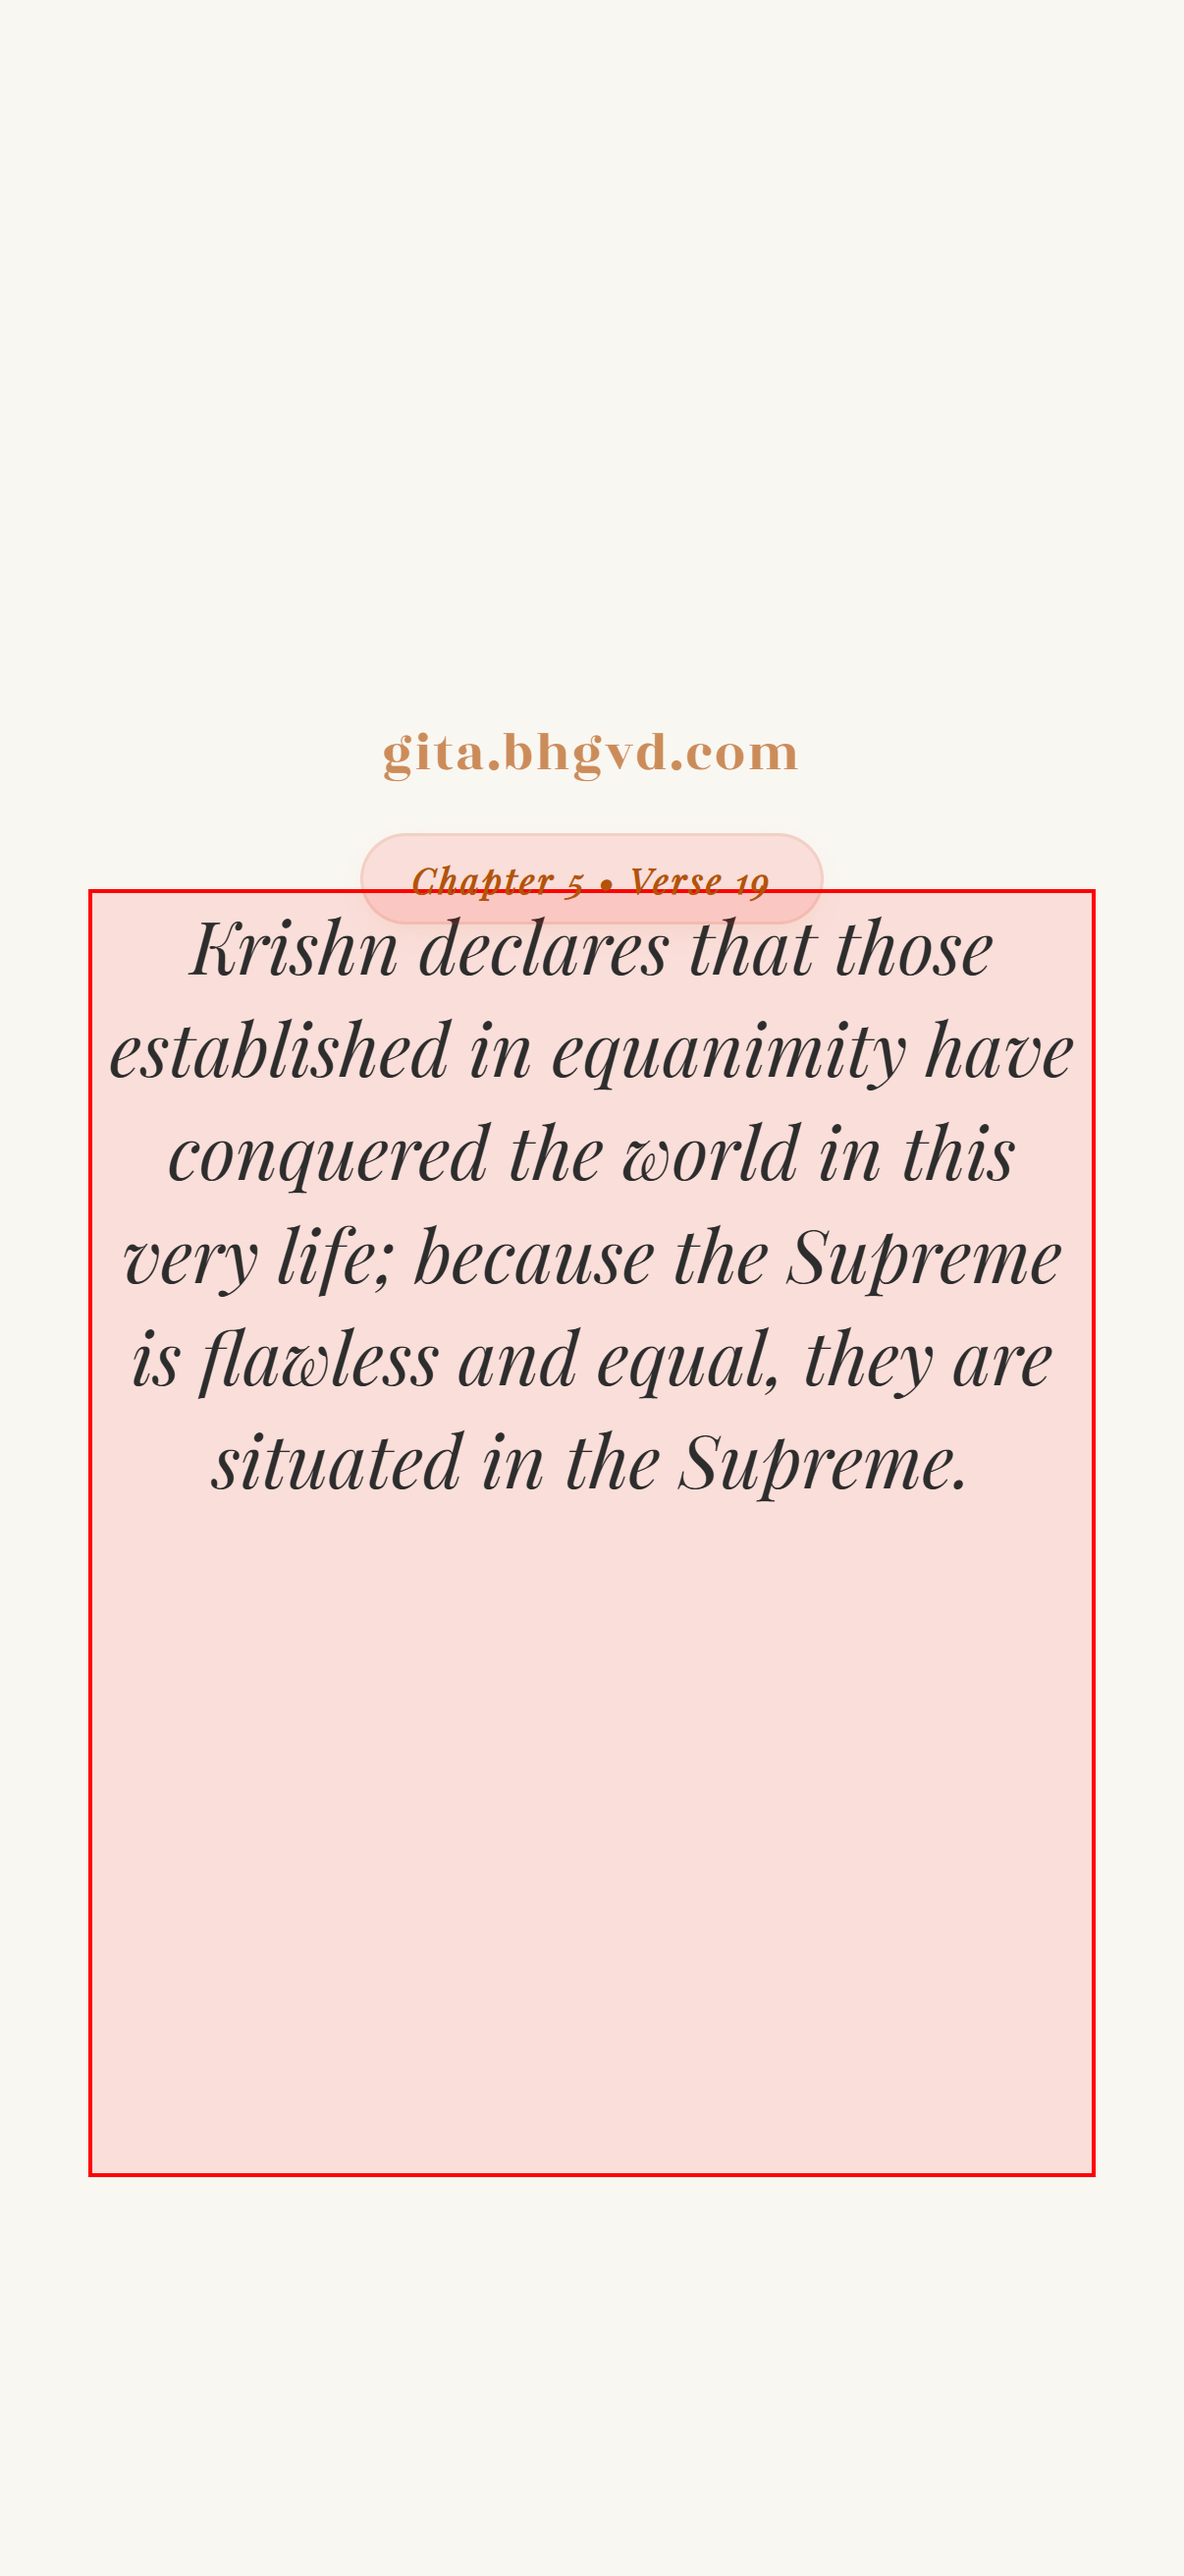
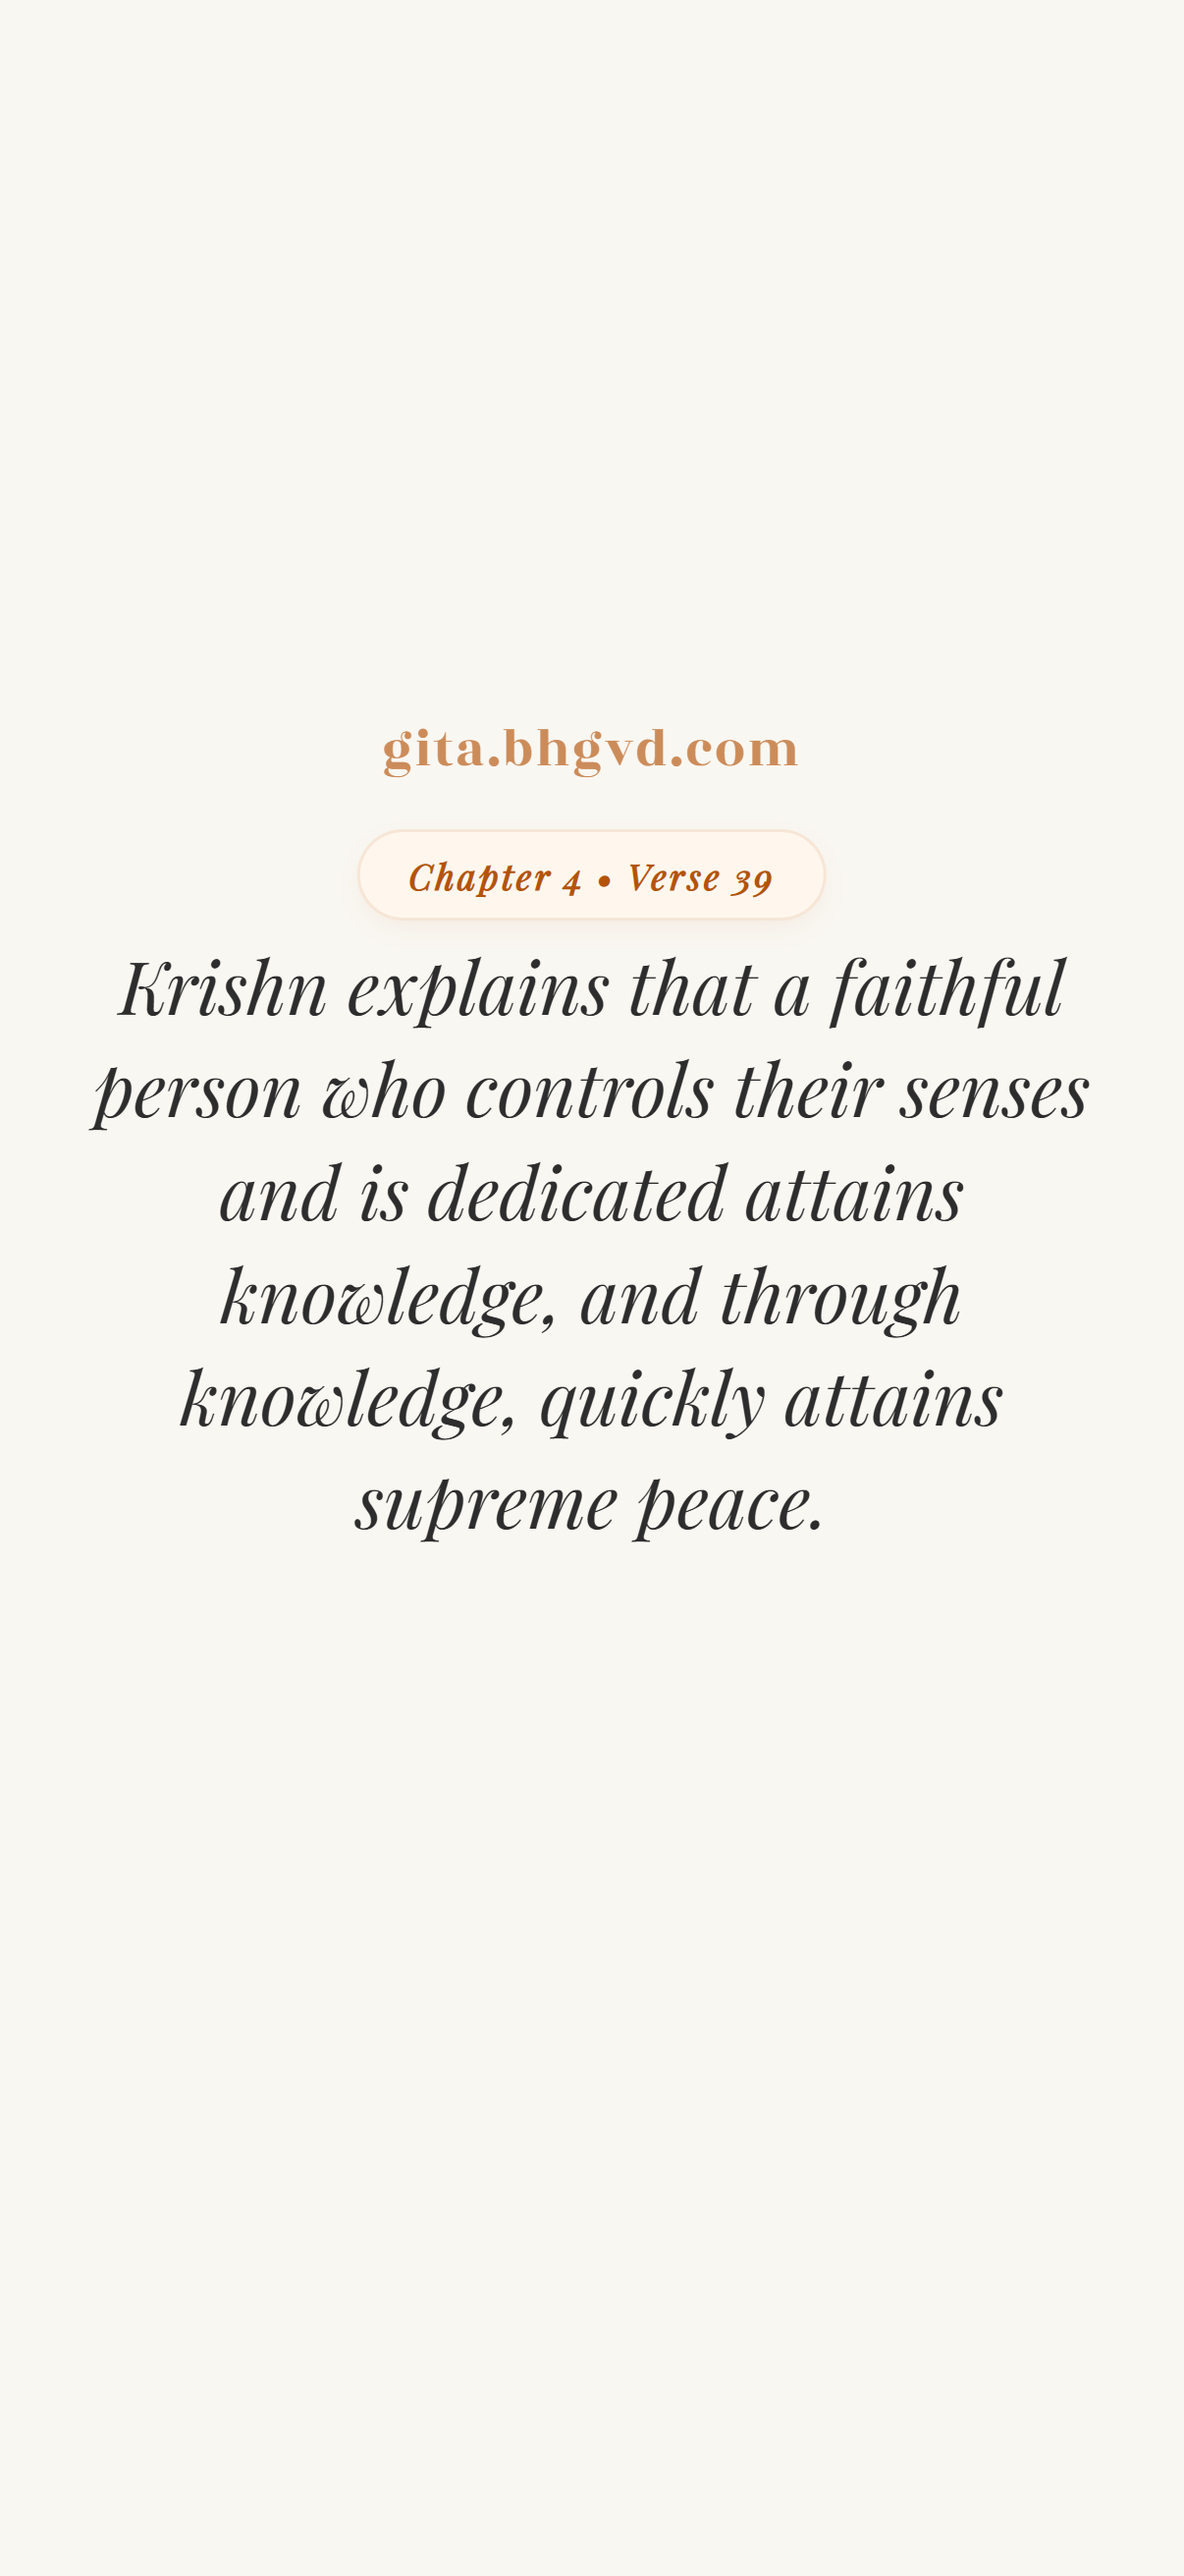
upd

diff --git a/update-wallpaper.js b/update-wallpaper.js
@@ -56,7 +56,7 @@ const devices = [
 ];
 
 async function generateWallpapers() {
-    // 1. Setup Output Directory (Renamed to 'wallpapers')
+    // 1. Setup Output Directory
     const outputDir = 'wallpapers';
     if (!fs.existsSync(outputDir)){
         fs.mkdirSync(outputDir);
@@ -74,7 +74,7 @@ async function generateWallpapers() {
     
     const page = await browser.newPage();
 
-    // 4. Loop through languages first
+    // 4. Loop through languages
     for (const lang of languages) {
         
         // Determine text content
@@ -109,17 +109,18 @@ async function generateWallpapers() {
 
                 .text-box {
                     position: relative;
-                    /* Universal Positioning: 4% from visual center offset */
-                    top: 12.5vh;
+                    top: 9.5vh;
                     
                     width: 85vw; 
-                    height: 55vh; 
+                    height: 50vh; 
+                    padding-top: 3.75vw;
                     
+                    
+
                     display: flex;
                     flex-direction: column;
                     align-items: center;
                     justify-content: flex-start;
-                    padding-top: 8vw;
                     box-sizing: border-box;
                 }
 
@@ -151,17 +152,22 @@ async function generateWallpapers() {
                     font-family: 'Playfair Display', 'fonthindi', 'fontgujarati', serif;
                     color: #2D2D2D;
                     
-                    font-size: 6.2vw;
+                    /* Default large size to test fitting */
+                    font-size: 6.2vw; 
                     
-                    line-height: 1.6;
+                    line-height: 1.4;
                     font-style: italic;
                     text-align: center;
                     padding: 0 2vw;
-                    max-height: 100%; 
-                    overflow: hidden;
-                    display: -webkit-box;
-                    -webkit-line-clamp: 11;
-                    -webkit-box-orient: vertical;
+                    
+                    width: 100%;
+                    max-height: 100%;
+                    
+                    display: flex;
+                    align-items: flex-start;
+                    justify-content: center;
+                    
+                    overflow: hidden; 
                 }
 
                 .wallpaper-footer {
@@ -184,7 +190,9 @@ async function generateWallpapers() {
             <body>
                 <div class="text-box">
                     <div id="verse-reference">Chapter ${verse.chapter} • Verse ${verse.verse}</div>
-                    <div id="translation-text">${textContent}</div>
+                    <div id="translation-text">
+                        <span id="text-inner">${textContent}</span>
+                    </div>
                     <div class="wallpaper-footer">gita.bhgvd.com</div>
                 </div>
             </body>
@@ -202,9 +210,7 @@ async function generateWallpapers() {
                 deviceScaleFactor: 1 
             });
 
-            // PATH UPDATE: Save inside 'wallpapers/' folder
             const fileName = `${outputDir}/${lang.fileChar}apple${device.suffix}.png`;
-            
             await page.screenshot({ path: fileName });
             console.log(`Generated ${fileName}`);
         }
